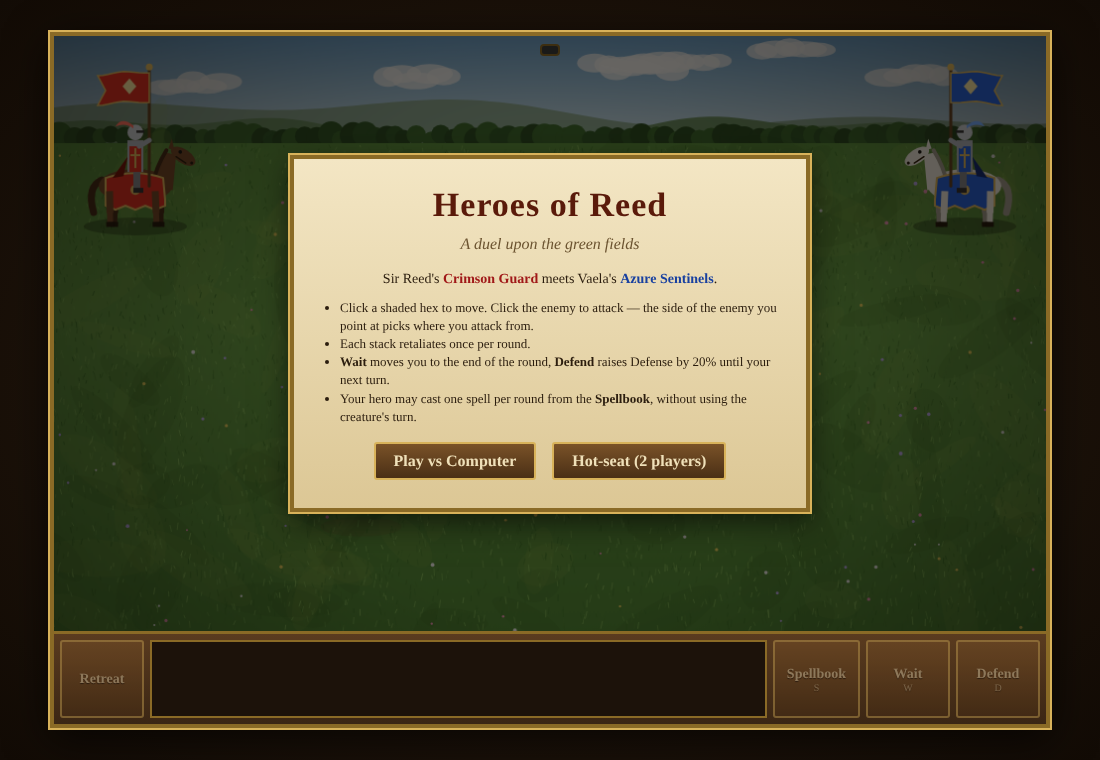
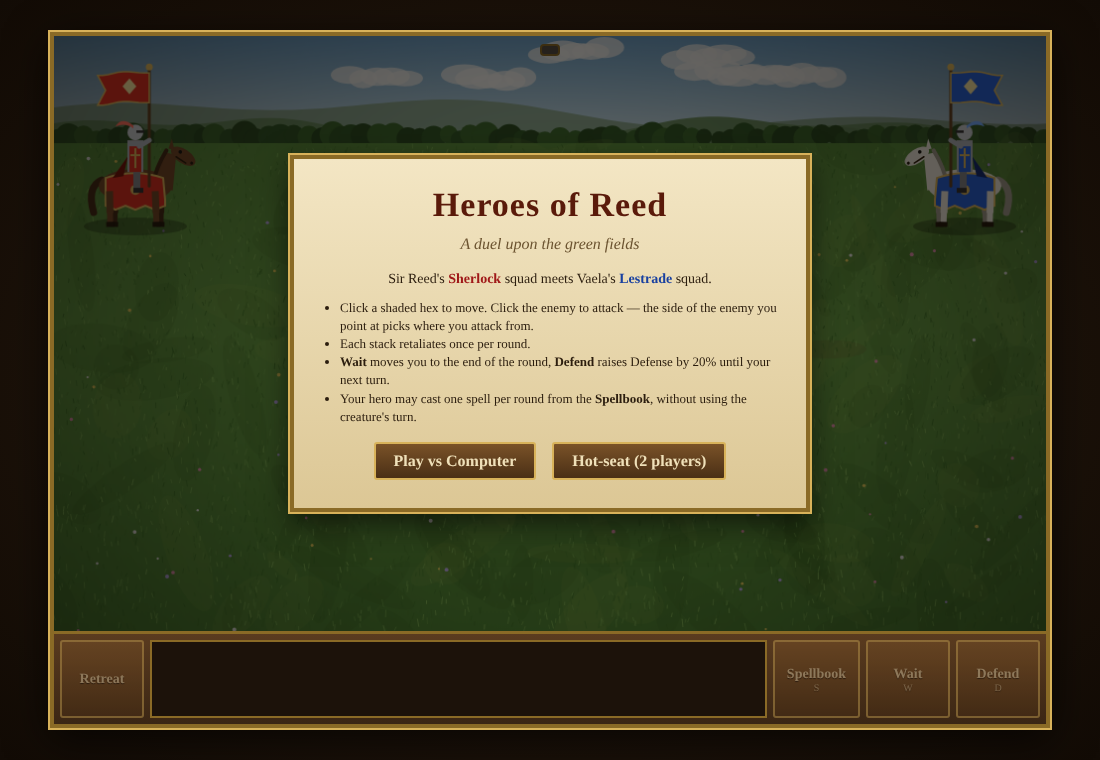
Rename stacks to Sherlock and Lestrade
Claude-Session: https://claude.ai/code/session_01BeBqydkfQuRcwG1sVVsFNo

diff --git a/index.html b/index.html
@@ -123,7 +123,7 @@
       <div class="card">
         <h1>Heroes of Reed</h1>
         <div class="sub">A duel upon the green fields</div>
-        <p>Sir Reed's <b style="color:#a01818">Crimson Guard</b> meets Vaela's <b style="color:#1840a0">Azure Sentinels</b>.</p>
+        <p>Sir Reed's <b style="color:#a01818">Sherlock</b> squad meets Vaela's <b style="color:#1840a0">Lestrade</b> squad.</p>
         <ul>
           <li>Click a shaded hex to move. Click the enemy to attack — the side of the enemy you point at picks where you attack from.</li>
           <li>Each stack retaliates once per round.</li>
@@ -185,8 +185,8 @@ const TEAM = {
 };
 
 const UNIT_DEFS = {
-  red:  { name: 'Crimson Guard',   count: 30, hp: 15, att: 7, def: 6, dmin: 3, dmax: 5, speed: 5, start: { c: 0,  r: 5 } },
-  blue: { name: 'Azure Sentinels', count: 24, hp: 20, att: 6, def: 8, dmin: 3, dmax: 6, speed: 6, start: { c: 14, r: 5 } },
+  red:  { name: 'Sherlock', count: 30, hp: 15, att: 7, def: 6, dmin: 3, dmax: 5, speed: 5, start: { c: 0,  r: 5 } },
+  blue: { name: 'Lestrade', count: 24, hp: 20, att: 6, def: 8, dmin: 3, dmax: 6, speed: 6, start: { c: 14, r: 5 } },
 };
 
 const HERO_DEFS = {
@@ -442,7 +442,7 @@ function startRound() {
 function tickEffects() {
   for (const u of G.units) {
     for (const k of Object.keys(u.eff)) {
-      if (u.eff[k] > 0 && --u.eff[k] === 0) log(`${k === 'stoneskin' ? 'Stone Skin' : 'Bloodlust'} wears off the ${u.name}.`);
+      if (u.eff[k] > 0 && --u.eff[k] === 0) log(`${k === 'stoneskin' ? 'Stone Skin' : 'Bloodlust'} wears off ${u.name}.`);
     }
   }
 }
@@ -475,7 +475,7 @@ function checkEnd() {
   if (!dead || G.over) return false;
   G.over = true; G.busy = true;
   const winner = enemyOf(dead);
-  log(`The ${dead.name} are destroyed! ${heroOf(winner).name} is victorious.`);
+  log(`${dead.name} is defeated! ${heroOf(winner).name} is victorious.`);
   updateUI();
   setTimeout(() => showEnd(winner.side), 900);
   return true;
@@ -506,7 +506,7 @@ async function strike(att, def, retal) {
   const killed = applyDamage(def, dmg);
   def.flash = 1;
   floater(def.x, def.y - 50, `-${dmg}`, '#ffdddd');
-  log(`${retal ? 'The ' + att.name + ' retaliate' : 'The ' + att.name + ' attack'}: ${dmg} damage, ${killed} ${def.name} perish.`);
+  log(`${att.name} ${retal ? 'strikes back' : 'attacks'}: ${dmg} damage, ${killed} ${def.name} knocked out.`);
   await tween(190, k => { att.armA = 1.6 + (rest - 1.6) * k; att.ox = dx * .32 * (1 - ease(k)); att.oy = dy * .32 * (1 - ease(k)); });
   att.armA = null;
   if (!def.alive) await dieAnim(def);
@@ -533,14 +533,14 @@ async function doWait(u) {
   if (u.waited) return;
   u.waited = true;
   G.queue.push(u);
-  log(`The ${u.name} wait.`);
+  log(`${u.name} waits.`);
   await endTurn();
 }
 async function doDefend(u) {
   G.busy = true;
   u.defending = true;
   u.glow = 1;
-  log(`The ${u.name} take a defensive stance.`);
+  log(`${u.name} takes a defensive stance.`);
   await endTurn();
 }
 
@@ -569,14 +569,14 @@ async function castSpell(side, spell) {
     const killed = applyDamage(target, dmg);
     target.flash = 1;
     floater(target.x, target.y - 34, `-${dmg}`, '#cfe0ff');
-    log(`Magic Arrow deals ${dmg} damage, ${killed} ${target.name} perish.`);
+    log(`Magic Arrow deals ${dmg} damage, ${killed} ${target.name} knocked out.`);
     if (!target.alive) { await dieAnim(target); checkEnd(); return; }
   } else if (spell.id === 'cure') {
     const heal = Math.min(10 + p * 5, target.hp - target.topHp);
     target.topHp += heal;
     target.glow = 1;
     floater(target.x, target.y - 34, `+${heal}`, '#c8ffc0');
-    log(`Cure restores ${heal} HP to the ${target.name}.`);
+    log(`Cure restores ${heal} HP to ${target.name}.`);
   } else {
     target.eff[spell.id] = p + 2;
     target.glow = 1;
@@ -670,9 +670,9 @@ function describe(act) {
   if (!act) return defaultStatus();
   if (act.type === 'attack') {
     const [lo, hi] = dmgRange(u, act.target);
-    return `Attack the ${act.target.name} (damage ${lo}–${hi}, kills ${killsFor(act.target, lo)}–${killsFor(act.target, hi)})`;
+    return `Attack ${act.target.name} (damage ${lo}–${hi}, kills ${killsFor(act.target, lo)}–${killsFor(act.target, hi)})`;
   }
-  if (act.type === 'move') return `Move the ${u.name} here`;
+  if (act.type === 'move') return `Move ${u.name} here`;
   if (act.type === 'info') {
     const t = act.unit;
     return `${t.count} ${t.name} — HP ${t.topHp}/${t.hp}, Att ${atkOf(t)}, Def ${defOf(t)}, Speed ${t.speed}${act.far ? ' (out of reach)' : ''}`;
@@ -739,7 +739,7 @@ function updateUI() {
   btnDefend.disabled = !can;
   btnSpell.disabled = !can || !canCast(G.active.side);
   btnRetreat.disabled = !G || G.over || (G.mode === 'ai' && !can);
-  if (G && G.active && isAI(G.active.side)) setStatus(`${heroOf(G.active).name}'s ${G.active.name} are thinking…`);
+  if (G && G.active && isAI(G.active.side)) setStatus(`${G.active.name} is thinking…`);
   // queue
   queueEl.innerHTML = '';
   if (!G) return;
@@ -786,7 +786,7 @@ function showEnd(winSide) {
   if (G.mode === 'ai') title.textContent = winSide === 'red' ? 'Victory!' : 'Defeat';
   else title.textContent = `${TEAM[winSide].name} wins!`;
   const w = unitOf(winSide);
-  document.getElementById('endText').textContent = `${heroOf(w).name} and the ${w.name} hold the field after ${G.round} round${G.round > 1 ? 's' : ''}.`;
+  document.getElementById('endText').textContent = `${heroOf(w).name} and ${w.name} hold the field after ${G.round} round${G.round > 1 ? 's' : ''}.`;
   document.getElementById('endCas').innerHTML =
     `Casualties — <b style="color:#a01818">${r.name}</b>: ${r.startCount - r.count} of ${r.startCount} · ` +
     `<b style="color:#1840a0">${b.name}</b>: ${b.startCount - b.count} of ${b.startCount}`;
